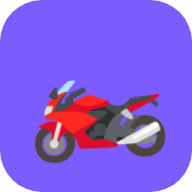
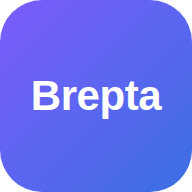
nová iko

diff --git a/mkicons.js b/mkicons.js
@@ -1,27 +1,35 @@
 const { chromium } = require('playwright');
 
-// Ikona: fialovy podklad znacky + motorka, stejne jako v hlavicce appky.
-function page(size, radius, emojiScale, bg) {
-  return `<!doctype html><html><body style="margin:0">
-    <div style="width:${size}px;height:${size}px;background:${bg};border-radius:${radius}px;
+// Ikona: gradient fialova->modra + napis "Brepta" (bez motorky).
+const GRADIENT = 'linear-gradient(135deg,#7C5CFC 0%,#3B6FE4 100%)';
+
+function page(size, radius, fontScale) {
+  return `<!doctype html><html><head>
+    <link rel="preconnect" href="https://fonts.googleapis.com">
+    <link rel="stylesheet" href="https://fonts.googleapis.com/css2?family=Baloo+2:wght@800&display=swap">
+    </head><body style="margin:0">
+    <div style="width:${size}px;height:${size}px;background:${GRADIENT};border-radius:${radius}px;
                 display:flex;align-items:center;justify-content:center;">
-      <div style="font-size:${Math.round(size*emojiScale)}px;line-height:1;transform:rotate(-4deg)">🏍</div>
+      <div style="font-family:'Baloo 2',sans-serif;font-weight:800;font-size:${Math.round(size*fontScale)}px;
+                  color:white;letter-spacing:-.01em;line-height:1">Brepta</div>
     </div></body></html>`;
 }
 
 (async () => {
   const b = await chromium.launch();
   const varianty = [
-    { file:'icons/icon-192.png',          size:192, radius:42,  scale:0.60 },
-    { file:'icons/icon-512.png',          size:512, radius:112, scale:0.60 },
-    { file:'icons/icon-maskable-512.png', size:512, radius:0,   scale:0.46 },
-    { file:'icons/apple-touch-icon.png',  size:180, radius:0,   scale:0.62 },
+    // nemaskovatelne ikony: radius rovnou zaobleny (nahled), text muze byt vetsi
+    { file:'icons/icon-192.png',          size:192, radius:42,  scale:0.22 },
+    { file:'icons/icon-512.png',          size:512, radius:112, scale:0.22 },
+    // maskable a apple ikony: bez zaobleni (oriznuti resi OS), text mensi kvuli safe-zone
+    { file:'icons/icon-maskable-512.png', size:512, radius:0,   scale:0.17 },
+    { file:'icons/apple-touch-icon.png',  size:180, radius:0,   scale:0.20 },
   ];
   for (const v of varianty) {
     const ctx = await b.newContext({ viewport:{width:v.size,height:v.size}, deviceScaleFactor:1 });
     const p = await ctx.newPage();
-    await p.setContent(page(v.size, v.radius, v.scale, '#7C5CFC'));
-    await p.waitForTimeout(250);
+    await p.setContent(page(v.size, v.radius, v.scale));
+    await p.waitForTimeout(350);
     await p.screenshot({ path:v.file, omitBackground:false });
     await ctx.close();
     console.log('hotovo', v.file);

diff --git a/sw.js b/sw.js
@@ -2,7 +2,7 @@
    Stranka se bere vzdycky nejdriv ze site, aby se nova verze projevila hned;
    ze zasoby se servíruje jen tehdy, kdyz telefon nema signal.
    Nazev CACHE prepisuje build.py podle cisla verze v index.html. */
-const CACHE = "brepta-v21";
+const CACHE = "brepta-v22";
 const ASSETS = [
   "./", "./index.html", "./manifest.webmanifest",
   "./icons/icon-192.png", "./icons/icon-512.png", "./icons/apple-touch-icon.png"

diff --git a/index.html b/index.html
@@ -361,7 +361,7 @@ const LEVELS = [
 
 <script>
 /* ----------------------------- stav ----------------------------- */
-const VERZE = "21 · 3. 9. 2026";
+const VERZE = "22 · 3. 9. 2026";
 const KEY = "brepta.v1";
 const OLD_KEY = "motorka.v1";   // appka se drive jmenovala Motorka
 const DEFAULT_STATE = { level:1, stars:0, days:[], offset:{}, doneCount:{}, doneOn:{} };
